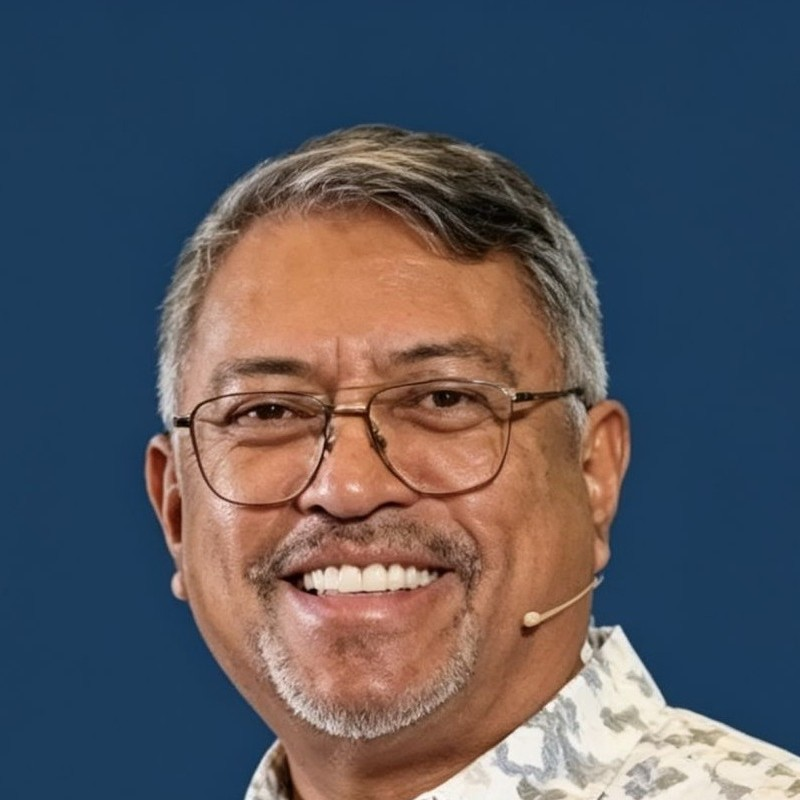
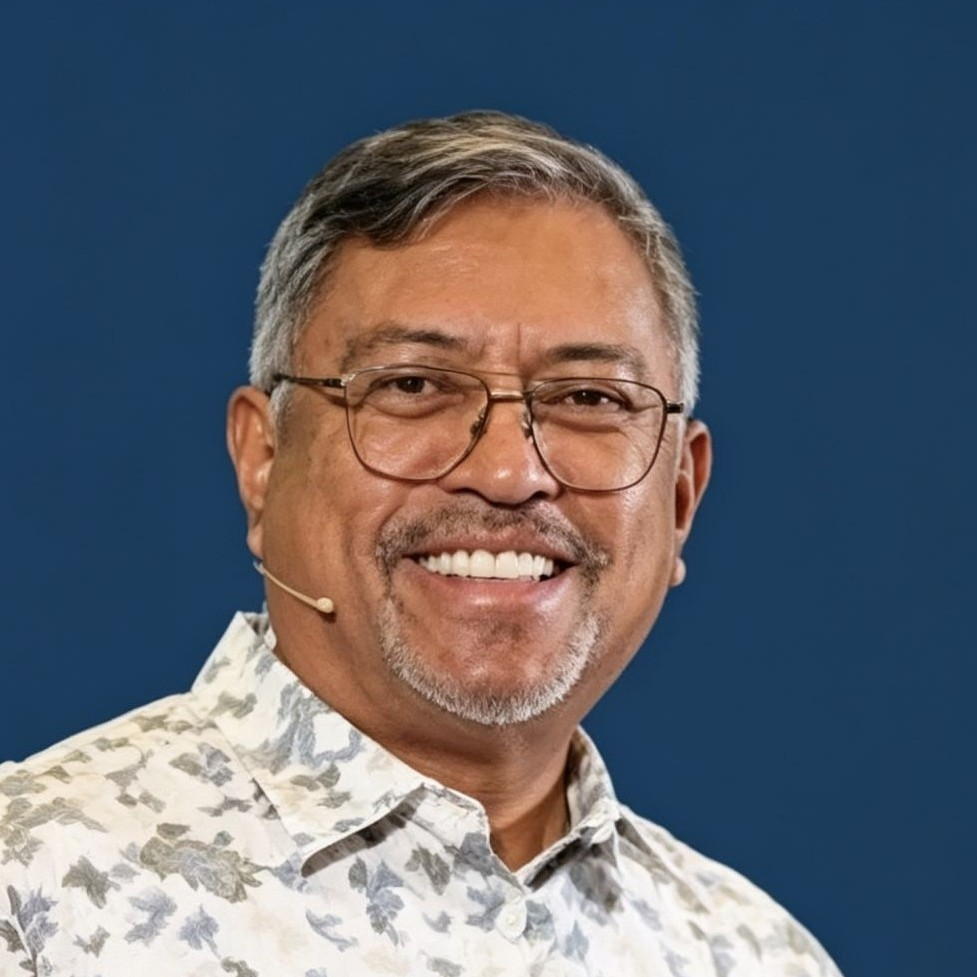
Use new Gogna headshot and keep speaker names on one line
- Replace Arun Gogna photo with clean front-facing headshot
- Force speaker names to a single line (whitespace-nowrap, tighter tracking)

diff --git a/src/components/SpeakersCard.tsx b/src/components/SpeakersCard.tsx
@@ -72,7 +72,7 @@ function SpeakersCard() {
               className="h-16 w-16 shrink-0 rounded-full border-2 border-amber-400 object-cover"
             />
             <div className="min-w-0">
-              <p className="font-lora text-sm font-bold uppercase tracking-wide text-navy">
+              <p className="whitespace-nowrap font-lora text-sm font-bold uppercase tracking-tight text-navy">
                 {speaker.name}
               </p>
               <ul className="mt-2 flex items-center gap-3">
